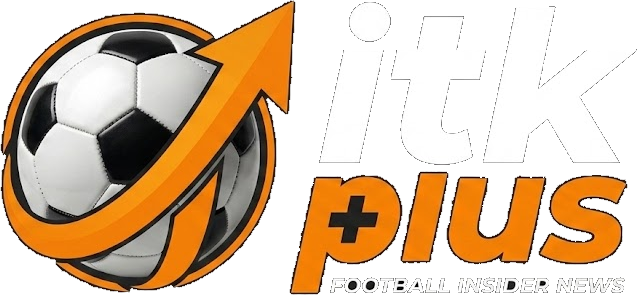
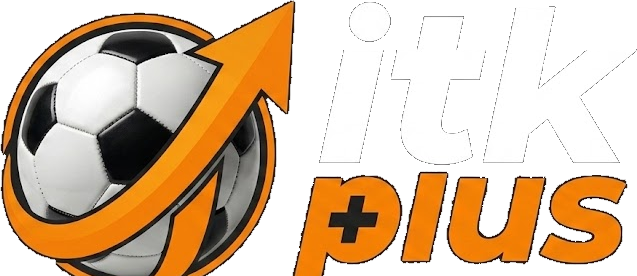
로고 높이를 줄이고 태그라인 제거
헤더에서 로고가 57px 높이를 차지해 헤더 자체가 81px 이 됐다.

FOOTBALL INSIDER NEWS 를 잘라낸다. 헤더 크기에서는 2px 높이로 렌더돼
읽히지 않으면서 락업 깊이의 상당 부분을 차지한다. 637x295 → 637x276.

그리고 폭이 아니라 높이로 크기를 잡는다. 헤더의 리듬은 세로이고,
워드마크가 itk 아래 plus 로 쌓이므로 폭은 높이에서 따라 나온다.
38px 높이 = 88px 폭.

파비콘·홈화면 아이콘도 이 아트워크의 마크로 다시 만들었다.

diff --git a/components/Logo.tsx b/components/Logo.tsx
@@ -1,34 +1,38 @@
 import Image from "next/image";
 
 /**
- * The supplied artwork, background removed.
+ * The supplied artwork, background removed and the strapline cropped.
  *
  * Earlier passes redrew this as SVG — a traced ball, a generated ribbon, live
  * text for the wordmark. None of them were the logo; they were approximations
- * of it, and the ball in particular carries photographic panel shading that
- * vector fills cannot reproduce. So the file itself ships, cut out of its plate
- * so it sits on any background. Diffed against the original: mean channel
- * difference 0.97/255, and the 1.2% of pixels that differ by more than 8 are
- * all on the cut edge.
+ * of it, and the ball carries photographic panel shading that vector fills
+ * cannot reproduce. So the file itself ships, cut out of its plate so it sits
+ * on any background. Diffed against the original: mean channel difference
+ * 0.97/255, and the pixels that differ are all on the cut edge.
  *
- * next/image serves it as AVIF/WebP at the width actually requested, so the
- * 226KB source is not what a visitor downloads.
+ * "FOOTBALL INSIDER NEWS" is cropped off because at header size it renders
+ * about two pixels tall — illegible, and it was most of what made the lockup
+ * so deep.
+ *
+ * Sized by height, not width: the header's rhythm is vertical, and the wordmark
+ * stacks "plus" under "itk" so the width follows from however tall it may be.
  */
 
-/** Intrinsic size of public/itk-plus.png, for the aspect ratio. */
+/** Intrinsic size of public/itk-plus.png. */
 const W = 637;
-const H = 295;
+const H = 276;
 
-export function Logo({ width = 132 }: { width?: number }) {
+export function Logo({ height = 38 }: { height?: number }) {
+  const width = Math.round((height * W) / H);
   return (
     <Image
       src="/itk-plus.png"
-      alt="itk plus — Football Insider News"
+      alt="itk plus"
       width={width}
-      height={Math.round((width * H) / W)}
+      height={height}
       priority
       className="select-none"
-      style={{ width, height: "auto" }}
+      style={{ height, width: "auto" }}
     />
   );
 }

diff --git a/app/page.tsx b/app/page.tsx
@@ -105,7 +105,7 @@ export default async function Home({
             title="필터 초기화"
             className="-m-1.5 shrink-0 rounded-md p-1.5 transition-opacity hover:opacity-85 focus-visible:ring-2 focus-visible:ring-accent focus-visible:outline-none"
           >
-            <Logo width={124} />
+            <Logo height={38} />
           </Link>
 
           <div className="ml-auto flex min-w-0 flex-1 items-center justify-end gap-2.5">
